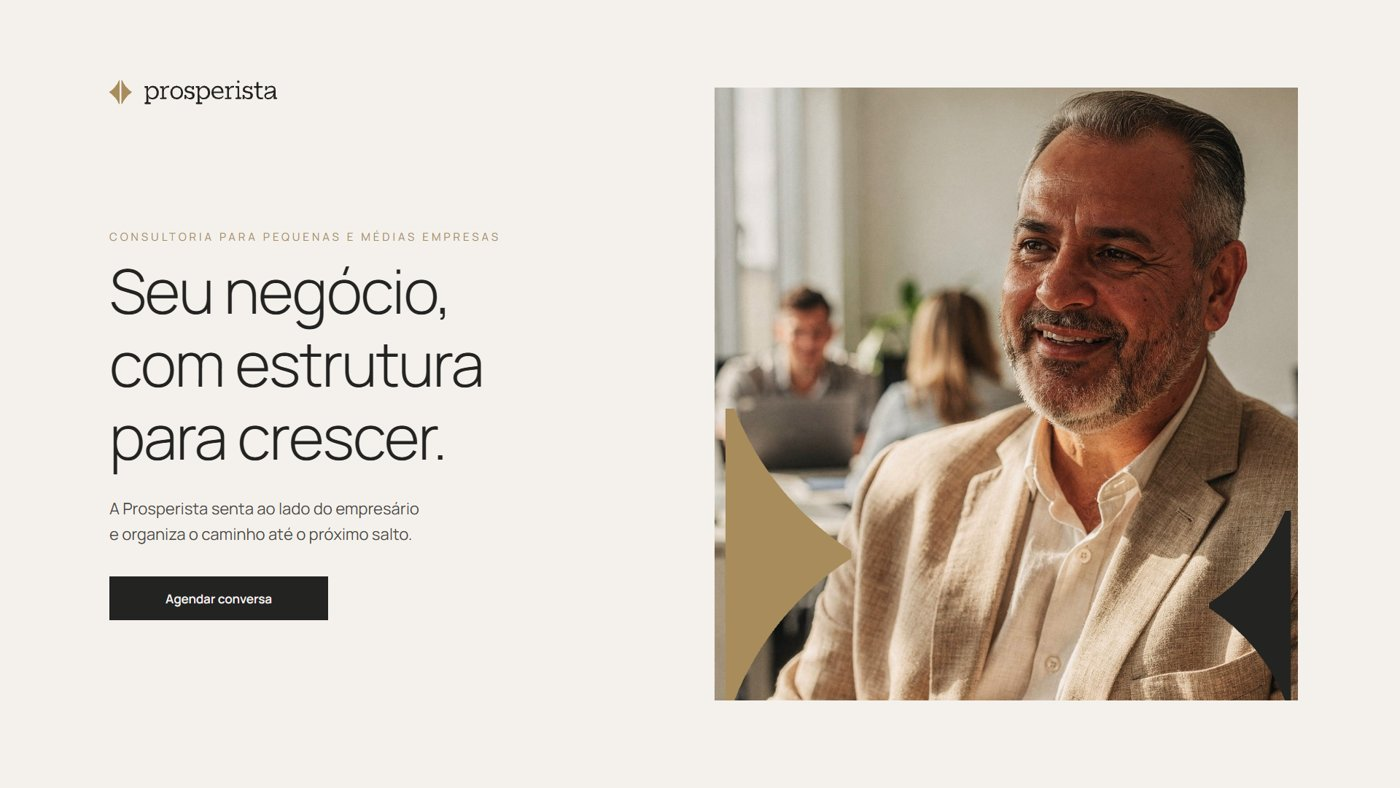
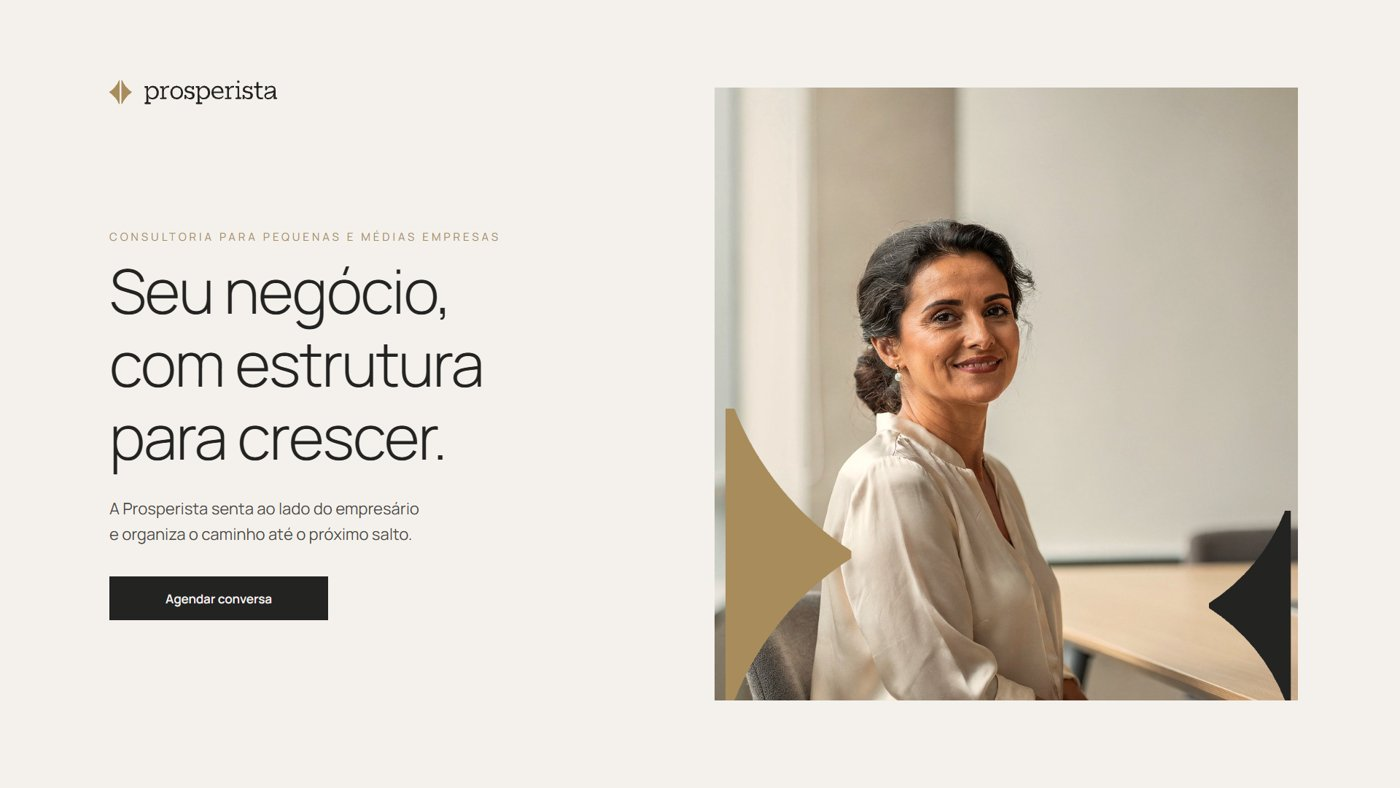
Atualização do manual 29/09/2026, 20:43:18

Changed region(s): [[0.4914, 0.0914, 0.9521, 0.9137]]

diff --git a/index.html b/index.html
@@ -401,7 +401,7 @@ go(0);})();</script>
 <div class="vz-ctx"><div class="vz-ch"><span>Canal</span><span>Assim</span><span>Não assim</span></div><div class="vz-c"><div><b>Proposta</b><em>Formal e completa</em></div><div class="vz-a">Nas primeiras quatro semanas, levantamos os números e as rotinas&nbsp;atuais.</div><div class="vz-x"><s>Iremos realizar um robusto processo de imersão estratégica.</s></div></div><div class="vz-c"><div><b>LinkedIn</b><em>Reflexivo</em></div><div class="vz-a">Toda empresa chega a um ponto em que o talento do dono não basta&nbsp;mais.</div><div class="vz-x"><s>Estamos muito felizes em anunciar nossa nova solução disruptiva!</s></div></div><div class="vz-c"><div><b>Instagram</b><em>Leve e visual</em></div><div class="vz-a">3 sinais de que sua empresa pede mais&nbsp;estrutura.</div><div class="vz-x"><s>Você NÃO pode perder essas dicas incríveis!!!</s></div></div><div class="vz-c"><div><b>WhatsApp</b><em>Direto e cordial</em></div><div class="vz-a">Oi, Carlos. Enviei o resumo da reunião por e-mail. Posso te ligar amanhã às&nbsp;10h?</div><div class="vz-x"><s>Oiii, tudo bem?? Então, sobre aquilo que a gente falou…</s></div></div><div class="vz-c"><div><b>E-mail</b><em>Um pedido, um prazo</em></div><div class="vz-a">Assunto: Plano de caixa, revisão até&nbsp;sexta</div><div class="vz-x"><s>Assunto: Alinhamento</s></div></div></div></div></div><div class="sec" data-aba="voz"><div class="num"><b>08</b>Vocabulário</div><div><div class="k-eye">Vocabulário</div><h2 class="vz-h">Trocamos o jargão pela palavra que o empresário&nbsp;usaria.</h2>
 <div class="vz-voc"><div><div class="vz-lb">Evitamos → dizemos</div><dl class="vz-dl"><dt>alavancar</dt><dd>fazer crescer</dd><dt>disruptivo</dt><dd>novo</dd><dt>sinergia</dt><dd>trabalhar junto</dd><dt>mindset</dt><dd>jeito de pensar</dd><dt>hack</dt><dd>atalho</dd><dt>solução 360º</dt><dd>o que é, de fato</dd><dt>empoderar</dt><dd>dar condições</dd><dt>case de sucesso</dt><dd>resultado</dd></dl></div><div><div class="vz-lb">Palavras da casa</div><ul class="vz-us"><li>estrutura</li><li>clareza</li><li>rotina</li><li>decisão</li><li>ao lado</li><li>plano</li><li>acompanhamento</li><li>do tamanho certo</li></ul></div></div></div></div><div class="sec" data-aba="voz"><div class="num"><b>08</b>Escrita</div><div><div class="k-eye">Escrita</div><h2 class="vz-h">Seis regras.</h2><div class="vz-rg"><div><span class="vz-n">01</span><b>Frases curtas</b><p>Uma ideia por frase. Se precisou de três vírgulas, vire duas&nbsp;frases.</p></div><div><span class="vz-n">02</span><b>Voz ativa</b><p>“Montamos o plano”, não “o plano foi montado”. Mostra quem&nbsp;faz.</p></div><div><span class="vz-n">03</span><b>Números concretos</b><p>“Doze semanas” e “três frentes”, não “em pouco tempo” e “várias&nbsp;áreas”.</p></div><div><span class="vz-n">04</span><b>“Você”, sempre</b><p>Falamos com uma pessoa, não com “o cliente” ou “as&nbsp;empresas”.</p></div><div><span class="vz-n">05</span><b>Sem exclamação</b><p>A segurança está no conteúdo. Emoji só em redes sociais, com&nbsp;parcimônia.</p></div><div><span class="vz-n">06</span><b>Nome da marca</b><p>No logotipo, prosperista em caixa-baixa. No texto corrido, Prosperista com inicial&nbsp;maiúscula.</p></div></div></div></div><div class="sec" data-aba="fotografia"><div class="num"><b>09</b>Fotografia</div><div><div class="ft-hero"><div class="ft-hero-t"><div class="k-eye">Fotografia</div><h2>Gente real,<br>cor de verdade.</h2></div><img src="fotos/ia-empresario-2.jpg" alt=""></div>
 <p class="vz-intro">Fotos naturais e vivas, de empresários e equipes no dia a dia do trabalho. A cor da marca não entra na foto: ela vem nos elementos que acompanham a imagem, como a estrela, as faixas e os&nbsp;textos.</p>
-<div class="ft-dir"><div class="ft-dir-t"><div class="vz-lb">Diretrizes conceituais</div><p>As fotos mostram empresas reais, da pequena à média, em ambientes internos, organizados e&nbsp;limpos.</p><p>As pessoas aparecem no contexto do trabalho: conversando, decidindo, apresentando. A câmera registra o momento, não pede&nbsp;pose.</p><p>Ângulos variados, de cima, de baixo, bem de perto, para fugir da foto de reunião de sempre. Emoção de verdade: o riso, a concentração, o gesto de explicar.</p><p>Espontaneidade e otimismo, com os pés no chão: o mesmo tom da voz da&nbsp;marca.</p></div><div class="ft-dir-g"><img src="fotos/retrato.jpg" alt="" class="g1"><img src="fotos/dupla-mesa.jpg" alt="" class="g2"><img src="fotos/operacao.jpg" alt="" class="g3"><img src="fotos/decima.jpg" alt="" class="g4"></div></div>
+<div class="ft-dir"><div class="ft-dir-t"><div class="vz-lb">Diretrizes conceituais</div><p>As fotos mostram empresas reais, da pequena à média, em ambientes internos, organizados e&nbsp;limpos.</p><p>As pessoas aparecem no contexto do trabalho: conversando, decidindo, apresentando. A câmera registra o momento, não pede&nbsp;pose.</p><p>Ângulos variados, de cima, de baixo, bem de perto, para fugir da foto de reunião de sempre. Emoção de verdade: o riso, a concentração, o gesto de explicar.</p><p>Espontaneidade e otimismo, com os pés no chão: o mesmo tom da voz da&nbsp;marca.</p></div><div class="ft-dir-g"><img src="fotos/loja.jpg" alt="" class="g1"><img src="fotos/retrato.jpg" alt="" class="g2"><img src="fotos/operacao.jpg" alt="" class="g3"><img src="fotos/decima.jpg" alt="" class="g4"></div></div>
 <div class="ft-sn"><div><div class="vz-lb">Sim</div><ul><li>Empresários e equipes reais, no dia a dia do trabalho</li><li>Luz natural, de preferência de janela</li><li>Cor natural e viva, como a foto saiu da câmera</li><li>Gesto de conversa, de trabalho junto, de decisão</li><li>Areia, off-white e grafite no figurino: a paleta aparece sem esforço</li><li>Espaço livre para a marca e para o texto</li></ul></div><div><div class="vz-lb">Não</div><ul class="ft-no"><li>Aperto de mão, gráfico subindo, alvo, lâmpada</li><li>Sorriso posado olhando para a câmera sem contexto</li><li>Filtros, tons artificiais, preto e branco forçado</li><li>Fundos cheios que disputam com o texto</li><li>Marcas de terceiros aparecendo na cena</li></ul></div></div></div></div><div class="sec" data-aba="fotografia"><div class="num"><b>09</b>Estrela e foto</div><div><div class="k-eye">A estrela e a foto</div><h2 class="vz-h">O símbolo brinca com a imagem, sem esconder ninguém.</h2>
 <div class="ft-pc"><figure class=""><img src="fotos/peca_fresta.jpg" alt="A fresta"><figcaption><b>A fresta</b>A fresta da estrela divide a foto em duas metades, passando no espaço vazio entre as pessoas. Nunca corta um rosto.</figcaption></figure><figure class=""><img src="fotos/peca_janela.jpg" alt="A janela"><figcaption><b>A janela</b>A estrela inteira vira moldura. O rosto fica inteiro dentro de uma das metades.</figcaption></figure><figure class=""><img src="fotos/peca_meia.jpg" alt="A meia estrela"><figcaption><b>A meia estrela</b>Uma metade, sempre inteira, apoiada na divisa entre a foto e a faixa de texto.</figcaption></figure><figure class="ft-wide"><img src="fotos/peca_mosaico.jpg" alt="Mosaico"><figcaption><b>Mosaico</b>Uma metade grande, em greige, fica atrás de uma faixa de fotos. Boa para aberturas, manifestos e capas de apresentação.</figcaption></figure><figure class="ft-wide"><img src="fotos/peca_banner.jpg" alt="Duas metades"><figcaption><b>Duas metades</b>As metades se encontram na foto, em cores diferentes, como quem chega de lados opostos.</figcaption></figure></div></div></div><div class="sec" data-aba="fotografia"><div class="num"><b>09</b>Ensaio</div><div><div class="k-eye">Briefing de ensaio</div><h2 class="vz-h">Para quando a Prosperista fotografar as próprias pessoas.</h2>
 <dl class="ft-en"><dt>Pessoas</dt><dd>O time e, com autorização, clientes reais. Nada de modelos.</dd><dt>Luz</dt><dd>Janela lateral ou softbox grande. Sombra macia, sem flash chapado.</dd><dt>Figurino</dt><dd>Tons lisos da paleta: grafite, off-white, areia, com um detalhe champanhe quando couber. Sem estampas e sem logotipos.</dd><dt>Ângulos</dt><dd>Para cada cena, uma versão aberta, uma de perto (mãos, rosto) e uma de ângulo inesperado, de cima ou de baixo.</dd><dt>Cenas</dt><dd>Conversa lado a lado, reunião de trabalho, o empresário no próprio negócio, retrato em meio corpo.</dd><dt>Enquadramento</dt><dd>Horizontal e vertical de cada cena, com um lado livre para texto e marca.</dd><dt>Entrega</dt><dd>Cor natural, sem filtro. Tratamento só de luz e contraste.</dd></dl>
